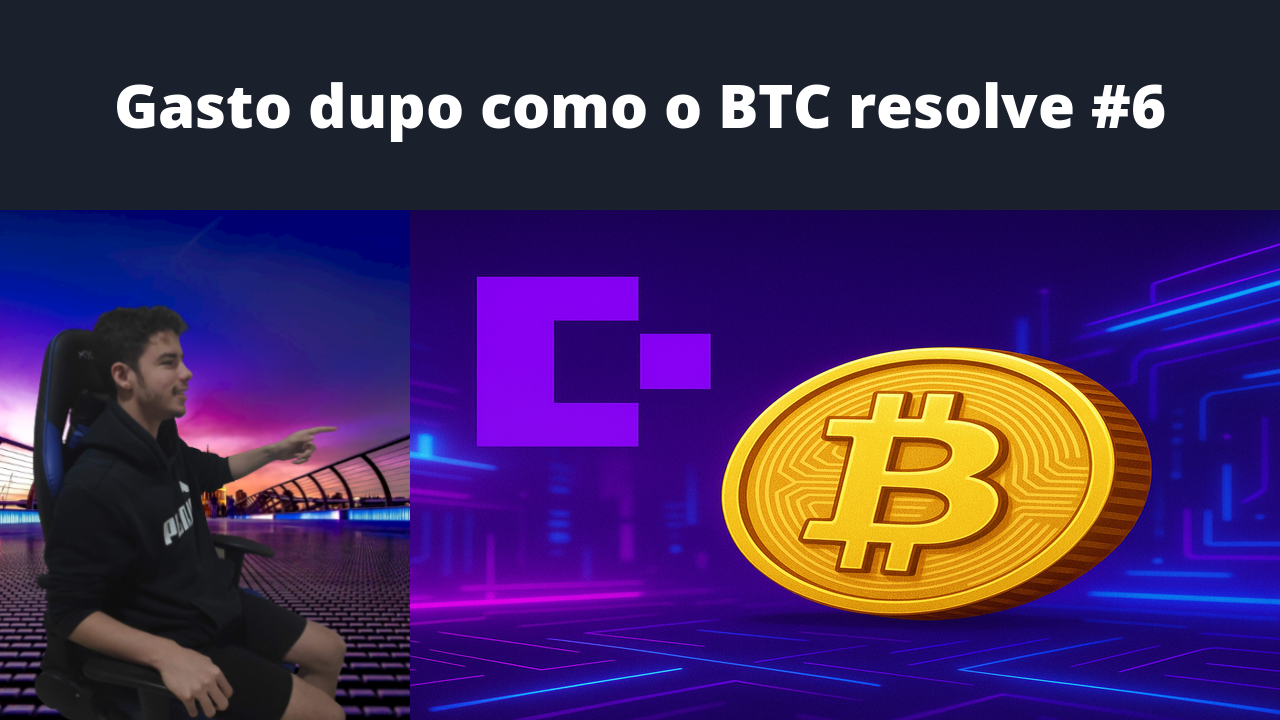
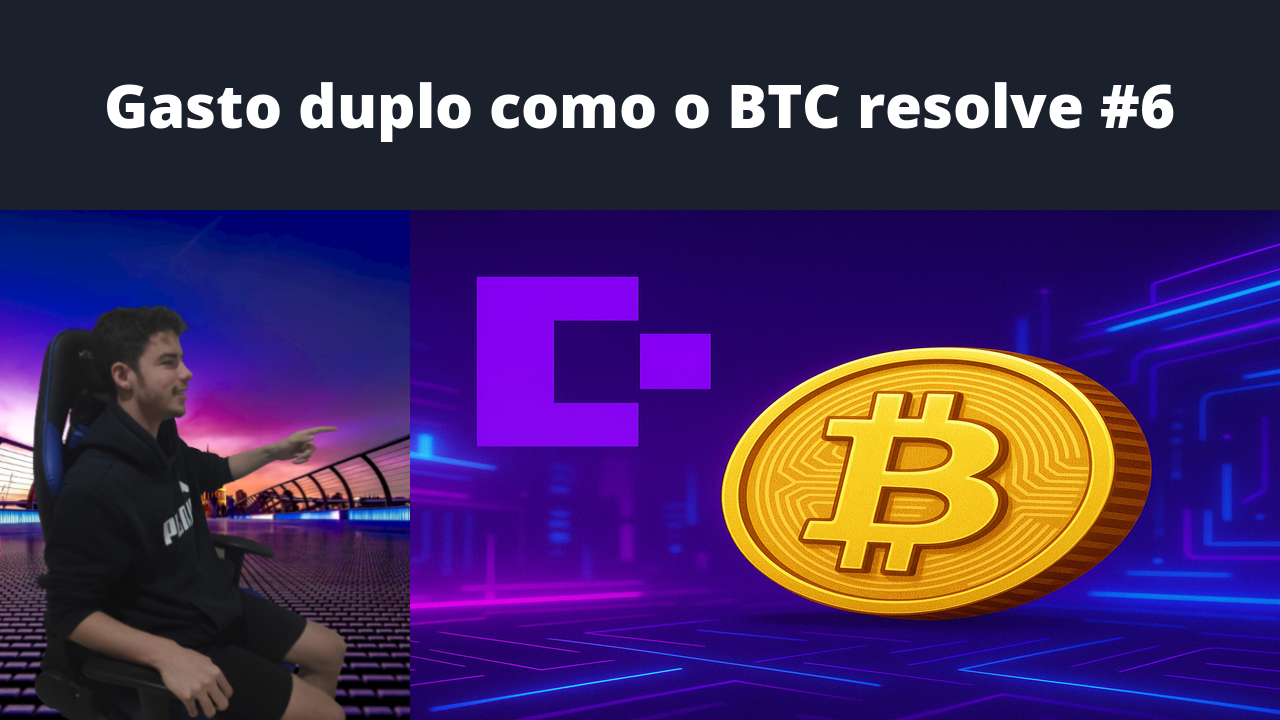
chore: add title debug: mastering title get

Changed region(s): [[0.0625, 0.0917, 0.9375, 0.2139]]

diff --git a/out/titles/Mastering Bitcoin.md b/out/titles/Mastering Bitcoin.md
@@ -1,0 +1,18 @@
+## Como bitcoin resolve o problema das moedas digitais #1
+[video](https://youtu.be/qDoZElkVCCY)
+## O que é UTXO ? #2
+[video](https://youtu.be/Hujt0gZ1c68)
+
+
+
+
+## O que determina a taxa de inflação do Bitcoin #5
+[video](https://youtu.be/durjTh544jo)
+## O que é gasto duplo e como o bitcoin resolve #6
+[video](https://youtu.be/CA7iN-ebHMk)
+## Prova de trabalho agulha no palheiro #7
+[video](https://youtu.be/mgc4KJ8klUM)
+
+
+## O que são entradas e saidas #9
+[video](https://youtu.be/wZa4vgP9BQo)
